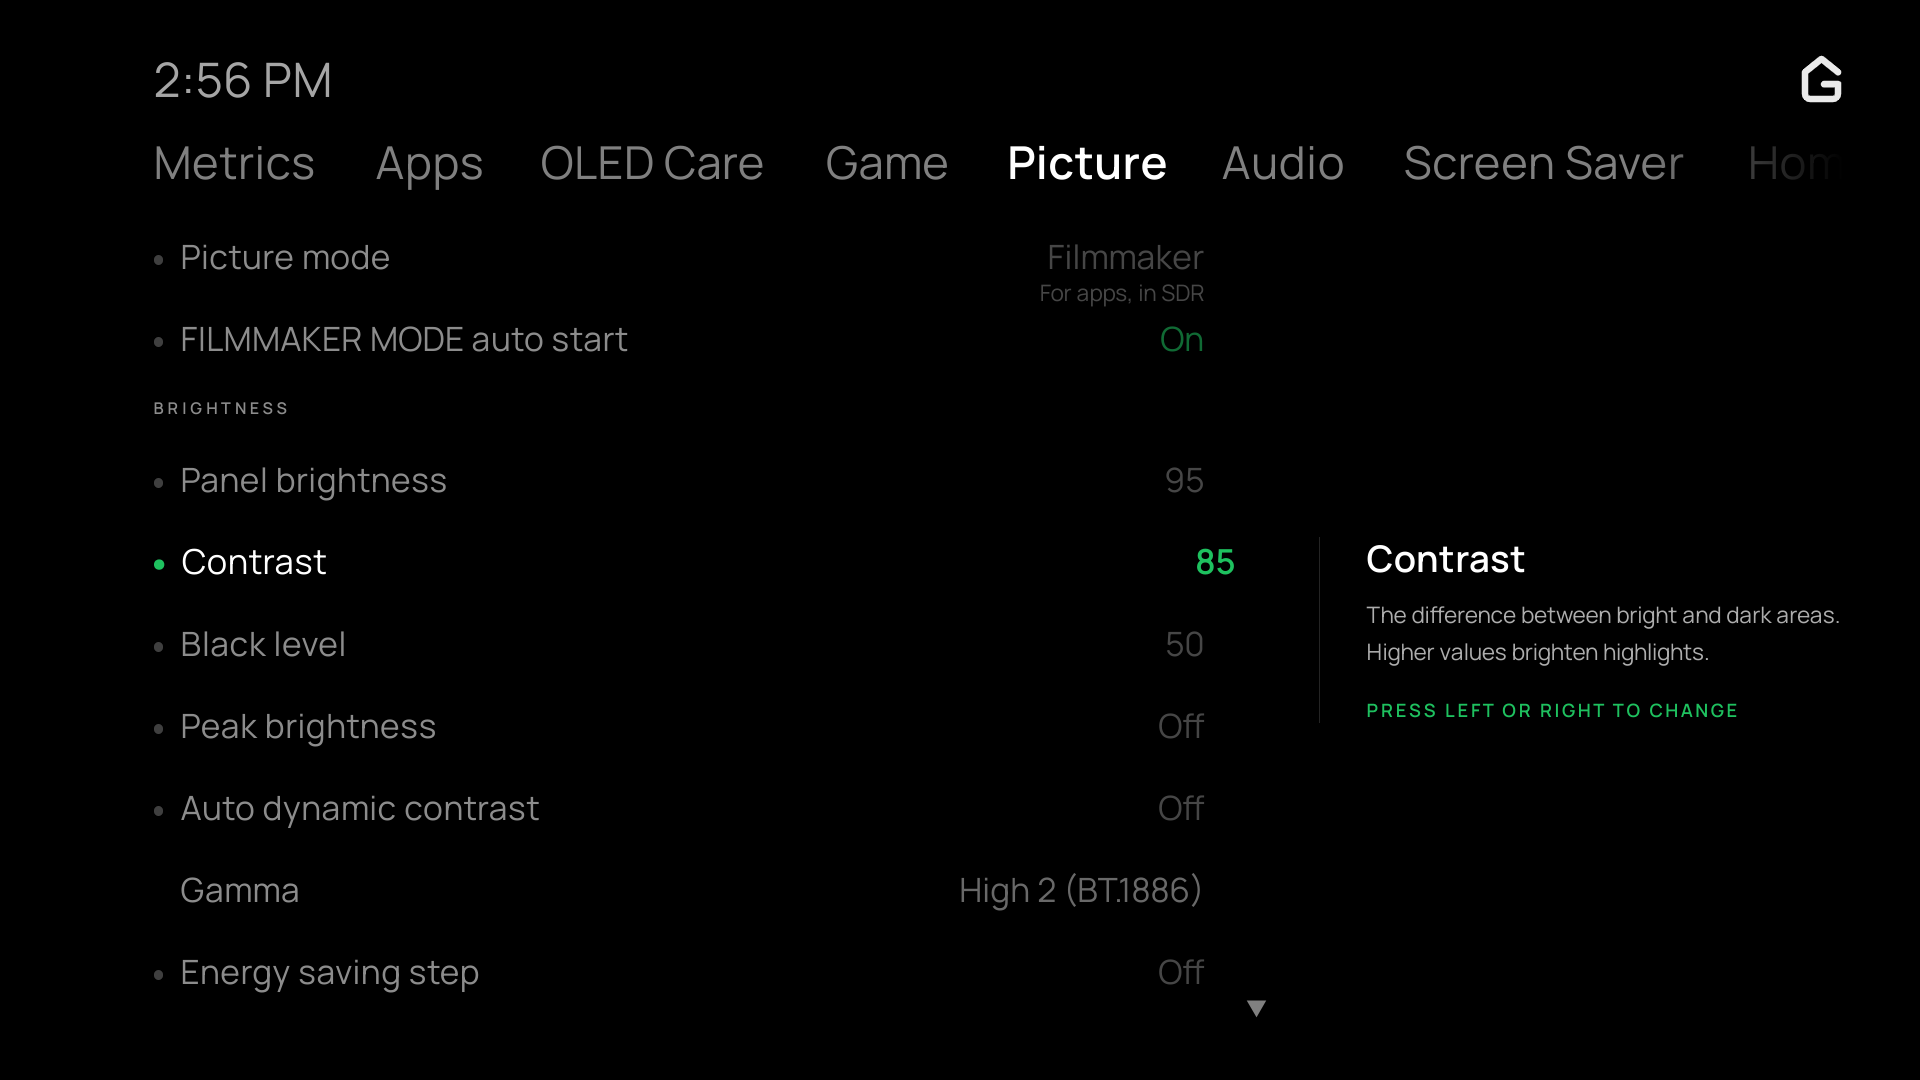
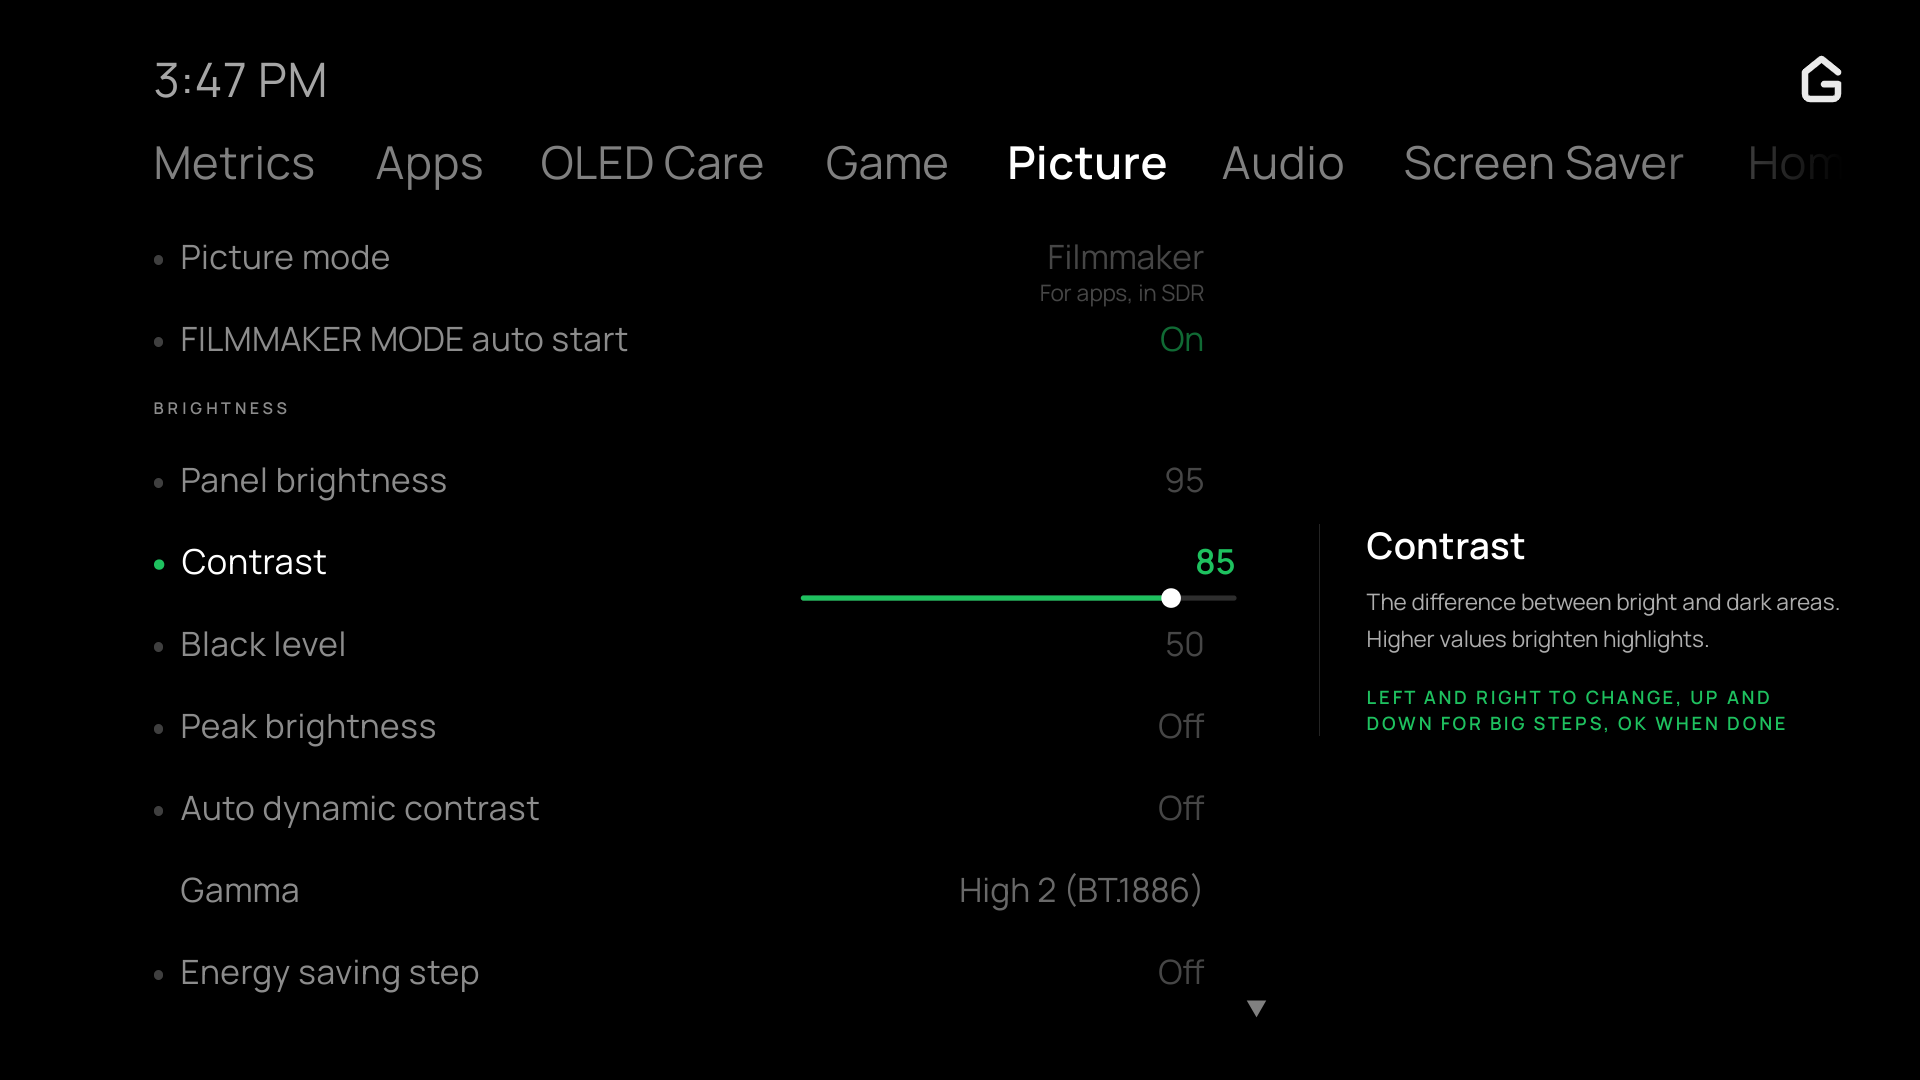
Retain pending picture slider writes across adjustment sessions

diff --git a/scripts/check-dashboards.js b/scripts/check-dashboards.js
@@ -1563,6 +1563,54 @@ async function visitTvAudio(browser, base, problems) {
     if (await page.locator('#rows .row').filter({ hasText: /Audio capabilities|Sound output/ }).count()) problems.push('TV audio: sound still listed under System');
   } finally { await page.close(); }
 }
+async function visitTvPictureWrites(browser, base, problems) {
+  for (const outcome of ['accepted', 'refused', 'disconnected']) {
+    const page = await browser.newPage();
+    const writes = [];
+    let releaseFirst, firstSeen, secondSeen;
+    const held = new Promise(resolve => { releaseFirst = resolve; });
+    const started = new Promise(resolve => { firstSeen = resolve; });
+    const secondStarted = new Promise(resolve => { secondSeen = resolve; });
+    page.on('pageerror', e => problems.push('TV picture: ' + e.message));
+    await page.route('**/api/picture', route => route.fulfill({ json: { ok: true, writable: true, rows: [
+      { id: 'backlight', title: 'Panel brightness', section: 'picture', group: 'brightness', type: 'number', value: 95, min: 0, max: 100 },
+      { id: 'contrast', title: 'Contrast', section: 'picture', group: 'brightness', type: 'number', value: 85, min: 0, max: 100 }
+    ] } }));
+    await page.route('**/api/control', async route => {
+      writes.push(route.request().postDataJSON().value);
+      if (writes.length === 2) secondSeen();
+      if (writes.length === 1) {
+        firstSeen();
+        await held;
+        if (outcome === 'disconnected') return route.abort();
+        if (outcome === 'refused') return route.fulfill({ json: { ok: false, error: 'Setting locked' } });
+      }
+      await route.fulfill({ json: { ok: true } });
+    });
+    try {
+      await page.goto(base + '/assets/dashboard.html?tab=picture');
+      await page.waitForSelector('#rows .row.sel:has-text("Panel brightness")');
+      for (const key of ['Enter', 'ArrowLeft', 'Enter', 'ArrowDown', 'Enter', 'ArrowLeft', 'Enter']) {
+        await page.keyboard.press(key);
+      }
+      await started;
+      const second = page.waitForRequest(request => request.url().endsWith('/api/control') &&
+        request.postDataJSON().value.id === 'contrast', { timeout: 2000 });
+      releaseFirst();
+      await second;
+      await secondStarted;
+      if (JSON.stringify(writes) !== JSON.stringify([{ id: 'backlight', value: 94 }, { id: 'contrast', value: 84 }])) {
+        problems.push('TV picture: incorrect slider writes after ' + outcome + ' response: ' + JSON.stringify(writes));
+      }
+    } catch (e) {
+      problems.push('TV picture: pending slider lost after ' + outcome + ' response: ' + e.message);
+    } finally {
+      releaseFirst();
+      await page.close();
+    }
+  }
+}
+
 async function visitTvNonOled(browser, base, problems) {
   const page = await browser.newPage({ viewport: { width: 1920, height: 1080 } });
   page.on('pageerror', e => problems.push('TV non-OLED: ' + e.message));
@@ -1591,6 +1639,7 @@ async function visitTvNonOled(browser, base, problems) {
     .concat(tv.map(t => ({ url: base + '/assets/dashboard.html?tab=' + t, label: 'TV ' + t }))), problems);
   await visitTvDashboard(browser, base, problems);
   await visitTvAudio(browser, base, problems);
+  await visitTvPictureWrites(browser, base, problems);
   await visitTvNonOled(browser, base, problems);
   await visitHomeArrangement(browser, base, problems);
   await visitHomePicture(browser, base, problems);

diff --git a/server/assets/dashboard.html b/server/assets/dashboard.html
@@ -1562,13 +1562,13 @@ function lgNumber(g, v) {
  * final value has gone.
  */
 var adjusting = null;   // the row being adjusted
-var adjustSent = null;  // the value last sent for it
+var adjustPending = [];
 var adjustInFlight = false;
 var adjustHeld = 0, adjustLastKey = 0;
 
 function startAdjust() {
   adjusting = rows[sel];
-  adjustSent = adjusting.cur;
+  if (adjusting.adjustSent === undefined) adjusting.adjustSent = adjusting.cur;
   adjustHeld = 0;
   render();
 }
@@ -1615,10 +1615,14 @@ function adjustHtml(r) {
 }
 
 function pushAdjust(r) {
-  if (adjustInFlight || r.cur === adjustSent) {
-    if (!adjustInFlight && !adjusting) fetchTab(true);
+  if (r.cur !== r.adjustSent && adjustPending.indexOf(r) === -1) adjustPending.push(r);
+  if (adjustInFlight) return;
+  r = adjustPending.shift();
+  if (!r) {
+    if (!adjusting) fetchTab(true);
     return;
   }
+  if (r.cur === r.adjustSent) return pushAdjust(r);
   adjustInFlight = true;
   var value = r.cur;
   fetch('/api/control', {
@@ -1630,14 +1634,15 @@ function pushAdjust(r) {
       // A refused value is not retried: the row is put right by the next read.
       if (res && res.ok === false) {
         flash(res.error || t('tv.failed', 'That did not work'));
-        adjustSent = r.cur;
-      } else adjustSent = value;
+        r.adjustSent = r.cur;
+      } else r.adjustSent = value;
       pushAdjust(r);
     })
     .catch(function () {
       adjustInFlight = false;
-      adjustSent = r.cur;
+      r.adjustSent = r.cur;
       flash(t('tv.failed', 'That did not work'));
+      pushAdjust(r);
     });
 }
 

diff --git a/docs/development/testing.md b/docs/development/testing.md
@@ -21,6 +21,10 @@ them after a successful retry.
 `test-lgsettings.js` checks that picture writes refuse hidden settings and
 inactive choices, alongside locked rows and values outside the TV's range.
 
+The TV dashboard check adjusts two picture sliders before the first write
+answers. Both changes must be sent, including when the first write is refused
+or its connection fails.
+
 [`checks.yml`](https://github.com/rorygallagher2024/glasshouse/blob/main/.github/workflows/checks.yml) runs these on each pull request and each merge to main.
 
 | Check | What it catches |

diff --git a/docs/dashboard/picture.md b/docs/dashboard/picture.md
@@ -42,5 +42,7 @@ as in LG's menu. Left and Right change it by one, faster while held; Up and
 Down jump a tenth of its range; OK or Back finish. The TV takes each value as
 it changes. Outside a slider, Left and Right switch tabs as everywhere else in
 the app. OK cycles a choice or switches a setting.
+Moving to another slider while a change is still being saved keeps both
+adjustments; a refused change does not discard another row's pending value.
 
 ![Picture settings in the G3's TV app, with Contrast selected](../screenshots/picture-g3-tv.png)
